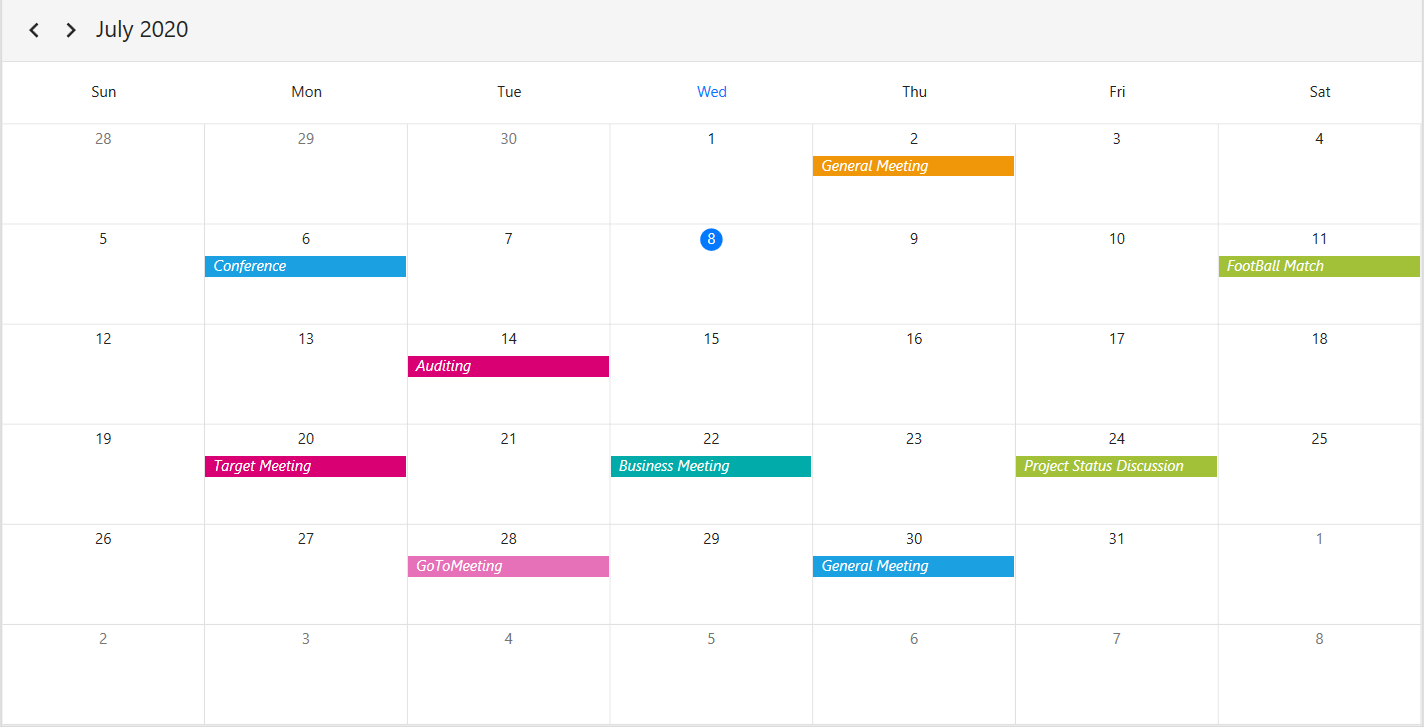
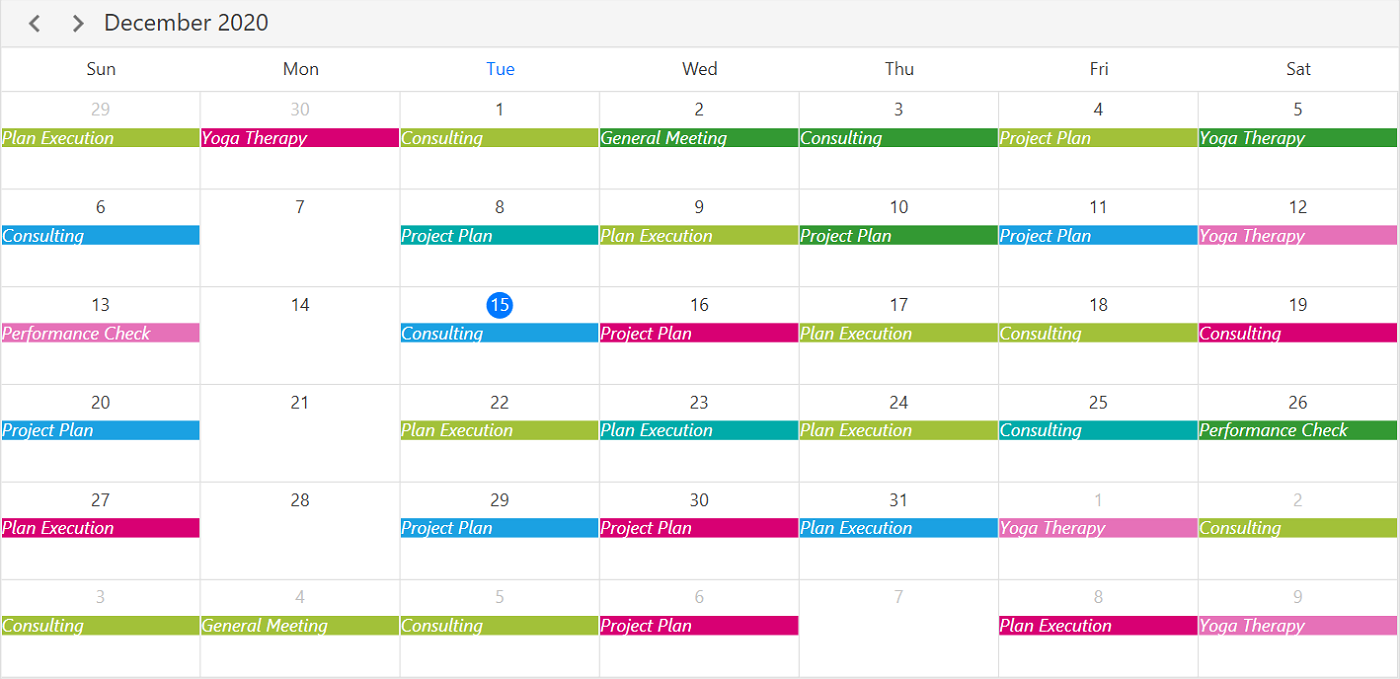
WPF-55869 - Appointment Customization added in month cell

diff --git a/wpf/Scheduler/Month-View.md b/wpf/Scheduler/Month-View.md
@@ -436,22 +436,23 @@ You can customize the default appearance of the month cell appointment by using 
 
  {% tabs %}
 {% highlight xaml %}
-<syncfusion:SfScheduler x:Name="Schedule"
-                        ViewType="Month" >
-    <syncfusion:SfScheduler.MonthViewSettings>
-        <syncfusion:MonthViewSettings>
-            <syncfusion:MonthViewSettings.AppointmentTemplate>
-                <DataTemplate >
-                    <TextBlock Margin="5,0,0,0"
-                                Foreground="White"
-                                FontStyle="Italic"
-                                HorizontalAlignment="Stretch"
-                                Text="{Binding Subject}" 
-                                TextTrimming="CharacterEllipsis"/>
-                </DataTemplate>
-            </syncfusion:MonthViewSettings.AppointmentTemplate>
-        </syncfusion:MonthViewSettings>
-    </syncfusion:SfScheduler.MonthViewSettings>
+<syncfusion:SfScheduler x:Name="Schedule" ViewType="Month" ItemsSource="{Binding Appointments}">
+            <syncfusion:SfScheduler.MonthViewSettings>
+                <syncfusion:MonthViewSettings>
+                    <syncfusion:MonthViewSettings.AppointmentTemplate>
+                        <DataTemplate>
+                        <TextBlock 
+                        Background="{Binding Data.BackgroundColor}"
+                        Text="{Binding Data.EventName}" 
+                        HorizontalAlignment="Stretch"
+                        TextTrimming="CharacterEllipsis"
+                        Foreground="{Binding Data.ForegroundColor}"        
+                        TextWrapping="Wrap"
+                        FontStyle="Italic" />
+                        </DataTemplate>
+                    </syncfusion:MonthViewSettings.AppointmentTemplate>
+                </syncfusion:MonthViewSettings>
+            </syncfusion:SfScheduler.MonthViewSettings>
 </syncfusion:SfScheduler>
 {% endhighlight %}
 {% endtabs %}

diff --git a/wpf/Scheduler/Appointments.md b/wpf/Scheduler/Appointments.md
@@ -681,7 +681,8 @@ The default appearance of schedule appointment can be customized in all views by
             VerticalAlignment="Center"
             Text="Meeting" 
             TextTrimming="CharacterEllipsis"
-            Foreground="{Binding Data.ForegroundColor}"        TextWrapping="Wrap"
+            Foreground="{Binding Data.ForegroundColor}"        
+            TextWrapping="Wrap"
             FontStyle="Italic"                       
             TextAlignment="Left"
             FontWeight="Bold"/>
